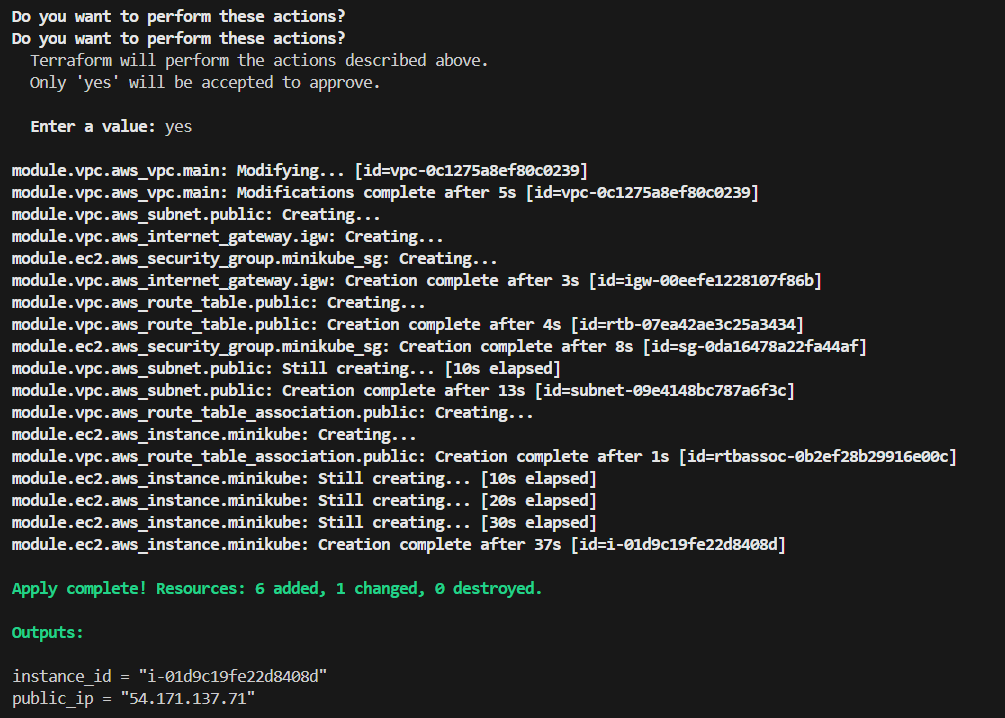
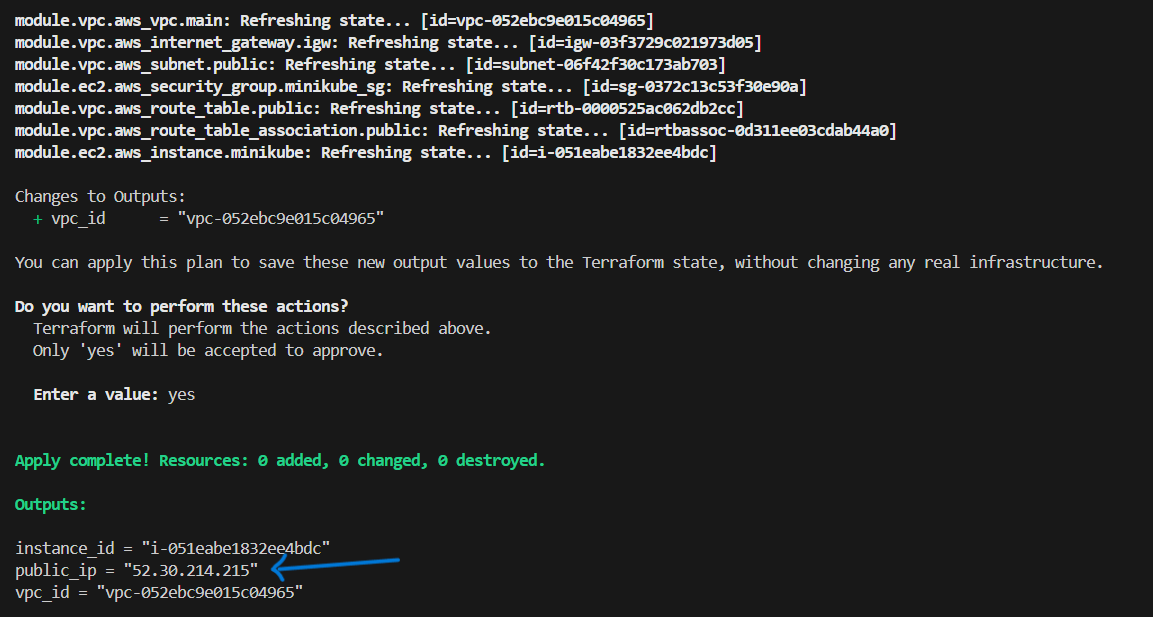
update

Changed region(s): [[0.0, 0.0, 0.9562, 0.7699], [0.0, 0.8622, 0.3393, 0.9854], [0.0, 0.8006, 0.5552, 0.8314]]

diff --git a/README.md b/README.md
@@ -1,21 +1,33 @@
-# Deliverables
-
-## 1. Documentations of your processes
+# CI/CD pipeline with GitHub Actions
+The Objective of this project is to explain a step by step guide on how to set up a CI/CD pipeline with GitHub Actions to deploy any application of your choice (in this case a python FastAPI) from GitHub to a Minikube cluster, that running on an EC2 instance deployed using Terraform. You can picture the flow this way:
+`GitHub` -> `AWS EC2` -> `Minikube`
 
 #### Step 1: Prepared the Code Repository
-- Created a new [repository](https://github.com/olugbedu/CI-CD-pipeline-with-GitHub-Actions) on GitHub and pushed application code.
-- Added [application](./main.py) code to the repository. 
-- Added a [Dockerfile](./Dockerfile) for the application, to containerize it
-- Pushed image to Docker image registry using GitHub Actions
+- Created a new [repository](https://github.com/olugbedu/CI-CD-pipeline-with-GitHub-Actions) on GitHub.
+- Add your [application](./main.py) code to the repository. 
+- Step up the environments and dependencies of your application
+- Add your [Dockerfile](./Dockerfile) for the application, to containerize it.
+
+#### Step 2: Set Up GitHub Actions
+In the repository, create a `YAML file` [deploy.yml](https://github.com/olugbedu/CI-CD-pipeline-with-GitHub-Actions/blob/main/.github/workflows/deploy.yml) inside a `.github/workflows` directory with the required configurations to build, tag and push the docker image to docker hub.
+- 
+
 ```yml
-- name: Set up Docker Buildx
+build-image:
+    runs-on: ubuntu-latest
+
+    steps:
+    - name: Checkout Code
+      uses: actions/checkout@v4
+
+    - name: Set up Docker Buildx
       uses: docker/setup-buildx-action@v2
 
     - name: Log in to DockerHub
       uses: docker/login-action@v2
       with:
-        username: ${{ secrets.DOCKER_USERNAME }}        # provided in the repository secret
-        password: ${{ secrets.DOCKER_PASSWORD }}        # provided in the repository secret
+        username: ${{ secrets.DOCKER_USERNAME }}
+        password: ${{ secrets.DOCKER_PASSWORD }}
 
     - name: Build and Push Docker Image
       run: |
@@ -23,74 +35,34 @@
         docker push ${{ secrets.DOCKER_USERNAME }}/adedeji-portfolio:latest
 ```
 ![docker image](images/dockerhub.png)
-
-
-#### Step 2: Set Up GitHub Actions
-- In the repository, I created a YAML file deploy.yml inside a .github/workflows directory with the required configurations [here](https://github.com/olugbedu/CI-CD-pipeline-with-GitHub-Actions/blob/main/.github/workflows/deploy.yml)
+![](images/port-8000.png)
 
 #### Step 3: Set Up Terraform for EC2 and Minikube
-- Created terraform [modules](./modules/) for your [EC2](./modules/ec2/), [VPC](./modules/vpc/)
-- Created [root modules](main.tf)
-- Created an EC2 instance with [Minikube](./modules/ec2/scripts/install_minikube.sh) running on it.
-- Run the appropriate Terraform commands in your terminal. ![](images/terraform-apply.png)
+In your code editor (VS code)
+- Create terraform [modules](./modules/) for your [EC2](./modules/ec2/), [VPC](./modules/vpc/)
+- Create [root modules](main.tf)
+- Create an EC2 instance with [Minikube](./modules/ec2/scripts/install_minikube.sh) running on it
+- Ensure to create of attach a `keypair` in your modules
+- Include `Public_ip` in the `output` of the `root` module
+- Run the `terraform plan` and `terraform apply` commands.
+ ![](images/terraform-apply.png)
+
+Click [here](https://registry.terraform.io/providers/hashicorp/aws/latest/docs) to know more about how to write terraform modules
 
 #### Step 4: Access the Minikube Cluster
-- SSH into the created EC2 instance using the public IP output from Terraform. Inside the EC2 instance, I installed docker as the driver, changed my user mode for docker with the command `sudo usermod -aG docker $USER`, configured kubectl to use the Minikube cluster. Then I cloned my git repo into the instance, and applied the k8s manifests and ensured it runs perfectly. Here are screenshots of the steps and commands.
-`sudo apt update`
-    ![ssh client](images/ssh-in.png)
-`sudo apt-get install docker.io -y`
-    ![ssh client](images/dockerinstall.png)
-    ![ssh client](images/ssh-cli.png)
-   ` minikube start`
-    ![ssh client](images/minikube-start.png)
-    ![ssh client](images/minikube-status.png)
-    ![](images/verify.png)
-    ![](images/port-forward.png)
-    ![](images/port-8000.png)
+To `SSH` into the created EC2 instance using the `public IP` output from Terraform.
+- log into your aws console,  search for "ec2" in the search field
+- Click on the ec2 and instances, you will find your new instance
+![](images/Screenshot5.png)
+- Click on connect, select ssh client
+![](images/Screenshot1.png)
+![](images/ec2_connect.png)
+- Navigate to your ssh private key folder on your local computer
+- Copy and paste the ssh address from the ec2 instance to connect.
+![](images/Screenshot4.png)
 
-#### Step 5: Automate Deployment with GitHub Actions
-- Update the GitHub Actions [workflow](https://github.com/olugbedu/CI-CD-pipeline-with-GitHub-Actions/blob/main/.github/workflows/deploy.yml) to deploy to the Minikube cluster on the EC2 instance. Ensure the Minikube instance's IP and SSH keys are securely managed. 
-![](images/secrets.png)
-
-## 2. Screenshots of your results from each step
-GitHub Action
-![](images/action6.png)
-![](images/verify-deployment.png)
-![](images/verify.png)
-![](images/port-forward.png)
-![](images/port-8000.png)
-![](images/action1.png)
-![](images/action2.png)
-![](images/action3.png)
-![](images/action4.png)
-![](images/action5.png)
-
-
-## 3. Application for Deployment
-I used Python FastAPI
-```python
-from fastapi import FastAPI
-
-app = FastAPI()
-
-@app.get("/")
-def read_root():
-    return {"message": "Welcome to Adedeji's Portfolio"}
-
-@app.get("/about")
-def read_about():
-    return {"about": "This is Adedeji's portfolio application."}
-```
-
-## 4. Docker image
-![](images/dockerhub.png)
-
-## 5. Terraform Modules 
-- I created EC2 module [here](./modules/ec2/)
-- I created VPC module [here](./modules/vpc/)
-- I created Root module [here](main.tf)
-
-## 6. Kubernetes Manifests
+#### Step 5: Write the Kubernetes Manifests
+Click [here](https://kubernetes.io/docs/concepts/workloads/controllers/deployment/) to know more about kubernetes manifests
 - [deployment.yaml](./k8S/deployment.yaml) 
 ```yaml
 apiVersion: apps/v1
@@ -137,6 +109,53 @@ spec:
     port: 80
     targetPort: 8000
 ```
+
+
+#### Step 6: Automate Deployment with GitHub Actions
+Update the GitHub Actions [workflow](https://github.com/olugbedu/CI-CD-pipeline-with-GitHub-Actions/blob/main/.github/workflows/deploy.yml)
+- Deploy to the Minikube cluster on the EC2 instance. 
+- Ensure the SSH keys are securely managed.
+  - Go to the repository `settings`
+  - Click on `secrets and variables` -> `Actions` -> `new repository secret`
+  - There, you can create your secrets as key-value pairs as shown in the image below
+  ![](images/settings.png)
+  ![](images/secrets.png)
+
+```yml
+Deploy:
+    runs-on: ubuntu-latest
+
+    steps:
+    - name: SSH into EC2
+      uses: appleboy/ssh-action@master
+      with:
+        host: ${{ secrets.EC2_PUBLIC_IP }}
+        username: ubuntu
+        key: ${{ secrets.EC2_SSH_KEY }}
+
+    - name: Deploy to Minikube
+      run: |
+        minikube start
+        kubectl config use-context minikube
+        kubectl apply -f k8S/deployment.yaml 
+        kubectl apply -f k8S/service.yaml 
+      shell: bash
+      continue-on-error: true
+
+    - name: Verify Deployment
+      run: |
+        kubectl get deployment
+        kubectl get svc
+      shell: bash
+      continue-on-error: true
+```
+
+
+![](images/action6.png)
+![](images/verify-deployment.png)
+![](images/port-forward.png)
+![](images/port-8000.png)
+
 
 
 
